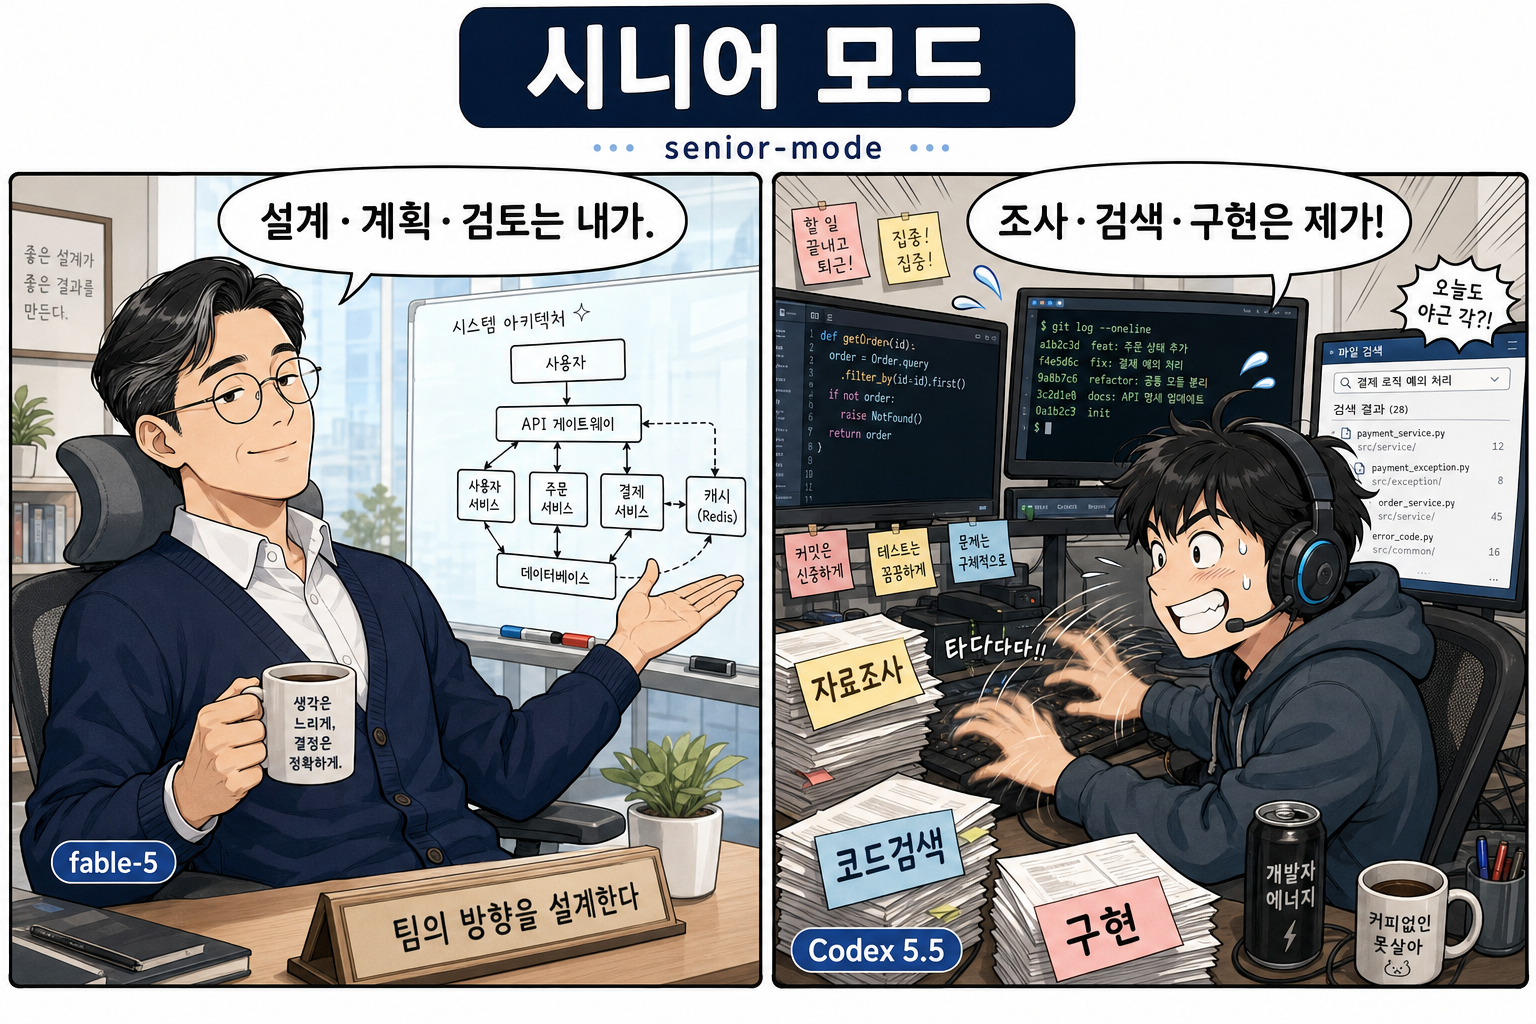
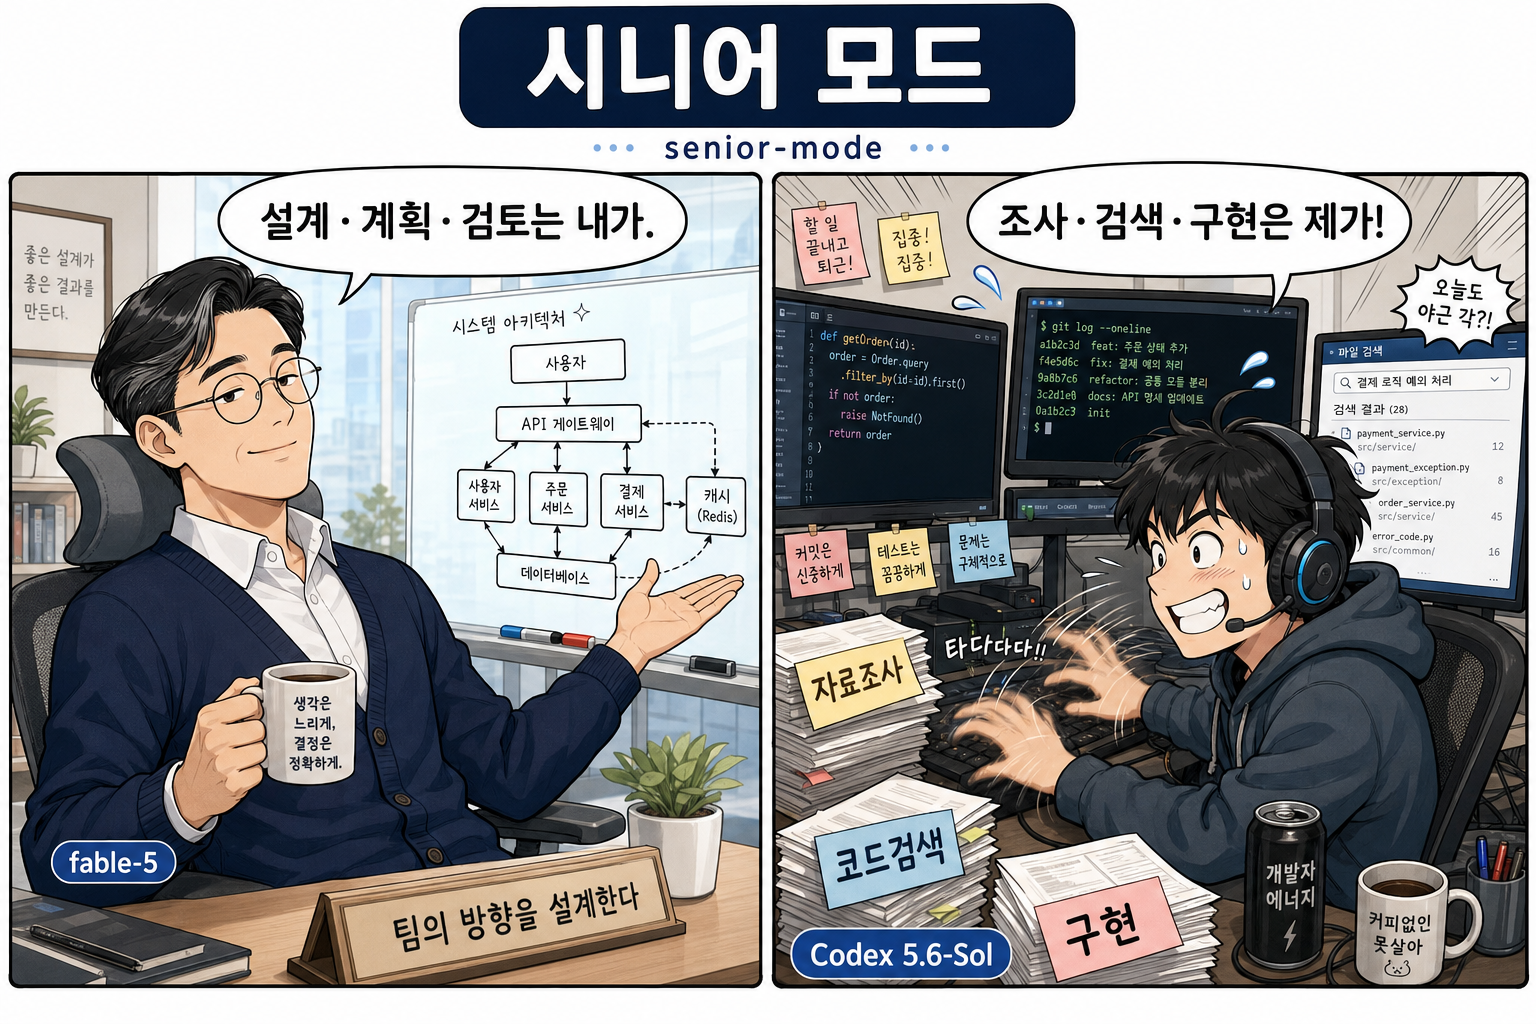
senior-mode: 모델 갱신 반영 (Opus 5, gpt-5.6-sol)
- 위임 경로 문서에서 Opus 4.8 → Opus 5 (README, README.en, SKILL, team-runtime)
- 웹툰 히어로 이미지 막내 배지 Codex 5.5 → Codex 5.6-Sol (gpt-image 로컬 인페인트, 나머지 원본 유지) + 양쪽 README alt 텍스트
- 컴패니언 스크립트: `sol` = gpt-5.6-sol 별칭 추가, effort에 max/ultra 허용, usage 문자열 갱신
- README 플래그 설명에 기본 모델·별칭·effort 범위 한 줄 추가, 저장소 트리에 docs/ 누락분 보강

검증: `task --dry-run --model sol --effort max` → `--model gpt-5.6-sol` + `model_reasoning_effort="max"`,
`--model spark --effort ultra` → gpt-5.3-codex-spark, 잘못된 effort는 exit 1, `setup` doctor ok.

Claude-Session: https://claude.ai/code/session_01Ag5eQeAgbDZDe3gFH8DUnK

Changed region(s): [[0.5, 0.875, 0.6562, 0.9688]]

diff --git a/SKILL.md b/SKILL.md
@@ -1,11 +1,11 @@
 ---
 name: senior-mode
-description: Senior engineering orchestration mode for Claude Code where fable-5 is reserved for high-leverage judgment, precise delegation prompts, report triage, and document writing while investigation, review, and delegated implementation passes go to a delegate — Codex through this skill's companion script by default, Opus 4.8 through the Agent tool, or an Anthropic-only agent team (references/team-runtime.md) when the user explicitly asks. Use when the user asks for senior-mode, 시니어 모드, fable-5 판단, 코덱스에게 조사 시키기, opus로 위임, opus로 구현, 팀으로 오케스트레이션, 정교한 프롬프트 작성, or when a complex task needs delegated research before a concise senior decision; do not use for small tasks, single-file edits, routine implementation, or any flow where fable-5 would write code bodies.
+description: Senior engineering orchestration mode for Claude Code where fable-5 is reserved for high-leverage judgment, precise delegation prompts, report triage, and document writing while investigation, review, and delegated implementation passes go to a delegate — Codex through this skill's companion script by default, Opus 5 through the Agent tool, or an Anthropic-only agent team (references/team-runtime.md) when the user explicitly asks. Use when the user asks for senior-mode, 시니어 모드, fable-5 판단, 코덱스에게 조사 시키기, opus로 위임, opus로 구현, 팀으로 오케스트레이션, 정교한 프롬프트 작성, or when a complex task needs delegated research before a concise senior decision; do not use for small tasks, single-file edits, routine implementation, or any flow where fable-5 would write code bodies.
 ---
 
 # Senior Mode
 
-Use `senior-mode` to preserve fable-5 for scarce senior-engineer work. Claude is the senior lead: it decides what must be learned, writes precise prompts, invokes the delegate, reads the returned reports, judges the situation, and writes documents or next-step prompts. The delegate does repository investigation, review, debugging passes, and explicitly delegated implementation detail discovery. Codex through the bundled companion script is the default delegate; Opus 4.8 through the Agent tool is an opt-in alternate (see Delegate Selection).
+Use `senior-mode` to preserve fable-5 for scarce senior-engineer work. Claude is the senior lead: it decides what must be learned, writes precise prompts, invokes the delegate, reads the returned reports, judges the situation, and writes documents or next-step prompts. The delegate does repository investigation, review, debugging passes, and explicitly delegated implementation detail discovery. Codex through the bundled companion script is the default delegate; Opus 5 through the Agent tool is an opt-in alternate (see Delegate Selection).
 
 This skill follows the official `openai/codex-plugin-cc` shape: Claude does not hand-roll Codex CLI calls. It uses the local helper script as the runtime boundary.
 
@@ -32,11 +32,11 @@ senior-mode has three delegation paths. Codex through the companion script is th
 | **Opus single-agent** | "opus로 구현", "opus에게 위임", "opus로 조사" | `Agent` tool with `model: "opus"` — mapping below |
 | **Anthropic team** | `/senior-mode:team`, "팀 모드", "팀으로 오케스트레이션", "anthropic 모델만으로" | Agent team led by the session model — read `references/team-runtime.md` beside this file |
 
-The `/senior-mode:team` and `/senior-mode:codex` slash commands (installed under `~/.claude/commands/senior-mode/`) pin a path for the session; a pinned path stays pinned until the user explicitly switches. Asking for `spark` is a Codex model choice (`--model spark` through the helper), not a delegate switch.
+The `/senior-mode:team` and `/senior-mode:codex` slash commands (installed under `~/.claude/commands/senior-mode/`) pin a path for the session; a pinned path stays pinned until the user explicitly switches. Asking for `sol` or `spark` is a Codex model choice (`--model sol` / `--model spark` through the helper), not a delegate switch.
 
 Opus delegation does not use the companion script. Use Claude Code's native `Agent` tool with `model: "opus"` and put the full delegation prompt — same Delegation Prompt Contract — in the `prompt` field:
 
-| Codex invocation | Opus 4.8 equivalent |
+| Codex invocation | Opus 5 equivalent |
 | --- | --- |
 | `task --wait --read-only` | `Agent` with `subagent_type: "Explore"`, `model: "opus"`, `run_in_background: false` |
 | `task --background --read-only` | Same, default background run; the completion notification replaces `wait`/`watch` |
@@ -82,8 +82,8 @@ Runtime rules:
 - Use `task --write` only when the user has explicitly moved from senior judgment to delegated implementation.
 - Prefer `--wait` for bounded jobs where Claude should receive the final report in the same tool call. Prefer `--background` for open-ended, multi-step, or likely slow Codex work; immediately record the returned job id and use `wait`, `status`, `watch`, `result`, and `cancel` through the same helper.
 - Use `review` for Codex code review. After review output, do not auto-fix findings; ask which findings should be acted on.
-- Use `--model` only when the user asks for a specific model. Map `spark` through the helper rather than writing the concrete model name yourself.
-- Use `--effort` only when the user asks for a specific reasoning effort.
+- Use `--model` only when the user asks for a specific model. Otherwise let Codex use its own configured default (currently `gpt-5.6-sol`). Map `sol` / `spark` through the helper rather than writing the concrete model name yourself.
+- Use `--effort` only when the user asks for a specific reasoning effort. `max` and `ultra` exist on the 5.6 family; do not reach for them by default.
 - Use `--prompt-file` for multi-line prompts so shell quoting never changes the task.
 - Do not inspect the repository yourself merely to make the Codex prompt more detailed. Prompt from the decision need, known paths, and the user's request.
 - Never start a second Codex run merely because output was not received. First run `status <job-id>` and `result <job-id>` for the original job id; if it is `stale`, read the stored output and decide from that evidence.

diff --git a/README.md b/README.md
@@ -3,7 +3,7 @@
 *비싼 모델은 시니어 판단에만 쓰고 손이 많이 가는 조사는 Codex에 맡기는 Claude Code 스킬.*
 
 <p align="center">
-  <img src="./docs/senior-mode-webtoon.png" alt="senior-mode 웹툰 — fable-5(김부장)는 설계·계획·검토, Codex 5.5(막내)는 자료조사·코드검색·구현" width="760">
+  <img src="./docs/senior-mode-webtoon.png" alt="senior-mode 웹툰 — fable-5(김부장)는 설계·계획·검토, Codex 5.6-Sol(막내)는 자료조사·코드검색·구현" width="760">
 </p>
 
 [English README](./README.en.md)
@@ -97,6 +97,8 @@ node scripts/codex-companion.mjs review --background --base main --cwd <repo>
 
 쓸 만한 플래그: `--prompt-file`(셸 따옴표에 안 깨지는 여러 줄 프롬프트), `--timeout-ms`, `--poll-interval-ms`, `--model`, `--effort`, `--json`, `--state-dir`.
 
+`--model`은 지정하지 않으면 Codex 쪽 기본 모델(현재 `gpt-5.6-sol`)을 그대로 씁니다. 짧은 별칭 `sol`(= `gpt-5.6-sol`)과 `spark`(= `gpt-5.3-codex-spark`)를 쓸 수 있고, `--effort`는 `none`부터 `xhigh`·`max`·`ultra`까지 받습니다.
+
 작업 상태는 워크스페이스 루트의 `.senior-mode/codex/jobs/` 아래에 기록되고 gitignore됩니다.
 
 ## LazyCodex (선택)
@@ -128,8 +130,8 @@ Claude는 설계 브리프(트리거 줄, 목표, 검증 가능한 성공 기준
 | --- | --- | --- |
 | `/senior-mode` (기본) | Codex | 컴패니언 스크립트 |
 | `/senior-mode:codex` | Codex 고정 | 컴패니언 스크립트 (세션 내내 고정) |
-| "opus로 구현해줘" | Opus 4.8 단일 에이전트 | Claude Code 내장 Agent 툴 (`model: "opus"`) |
-| `/senior-mode:team` | Anthropic 에이전트 팀 | 세션 메인 모델(fable-5 또는 Opus 4.8)이 팀 리드 |
+| "opus로 구현해줘" | Opus 5 단일 에이전트 | Claude Code 내장 Agent 툴 (`model: "opus"`) |
+| `/senior-mode:team` | Anthropic 에이전트 팀 | 세션 메인 모델(fable-5 또는 Opus 5)이 팀 리드 |
 
 **Opus 단일 에이전트** — 조사는 읽기 전용 Explore 에이전트, 구현은 general-purpose 에이전트(위험한 멀티파일 변경은 워크트리 격리)로 매핑됩니다. 별도 설치나 설정이 필요 없습니다.
 
@@ -154,6 +156,8 @@ senior-mode/
 │  └─ codex.md                 # /senior-mode:codex 슬래시 커맨드
 ├─ scripts/
 │  └─ codex-companion.mjs      # 의존성 없는 Codex 런타임 경계
+├─ docs/
+│  └─ senior-mode-webtoon.png  # README 상단 히어로 이미지
 ├─ install.sh                  # curl로 바로 실행하는 설치 스크립트
 ├─ README.md                   # 이 파일 (한국어)
 └─ README.en.md                # 영문 README

diff --git a/README.en.md b/README.en.md
@@ -3,7 +3,7 @@
 *A Claude Code skill that keeps your most expensive model on senior judgment and hands the legwork to Codex.*
 
 <p align="center">
-  <img src="./docs/senior-mode-webtoon.png" alt="senior-mode webtoon — fable-5 (the manager) does design/planning/review, Codex 5.5 (the junior) does research/code-search/implementation" width="760">
+  <img src="./docs/senior-mode-webtoon.png" alt="senior-mode webtoon — fable-5 (the manager) does design/planning/review, Codex 5.6-Sol (the junior) does research/code-search/implementation" width="760">
 </p>
 
 [한국어 README](./README.md)
@@ -97,6 +97,8 @@ Every background job returns a job id. Use it instead of launching a second run:
 
 Useful flags: `--prompt-file` (multi-line prompts that survive shell quoting), `--timeout-ms`, `--poll-interval-ms`, `--model`, `--effort`, `--json`, `--state-dir`.
 
+Omit `--model` and Codex uses its own configured default (currently `gpt-5.6-sol`). Short aliases are `sol` (= `gpt-5.6-sol`) and `spark` (= `gpt-5.3-codex-spark`); `--effort` accepts `none` through `xhigh`, plus `max` and `ultra`.
+
 Job state is written under `.senior-mode/codex/jobs/` in the workspace root and is gitignored.
 
 ## LazyCodex (optional)
@@ -128,8 +130,8 @@ Codex is the default delegate, but explicit requests route to Anthropic models i
 | --- | --- | --- |
 | `/senior-mode` (default) | Codex | companion script |
 | `/senior-mode:codex` | Codex, pinned | companion script (pinned for the session) |
-| "implement this with opus" | Opus 4.8 single agent | Claude Code's built-in Agent tool (`model: "opus"`) |
-| `/senior-mode:team` | Anthropic agent team | session main model (fable-5 or Opus 4.8) as team lead |
+| "implement this with opus" | Opus 5 single agent | Claude Code's built-in Agent tool (`model: "opus"`) |
+| `/senior-mode:team` | Anthropic agent team | session main model (fable-5 or Opus 5) as team lead |
 
 **Opus single agent** — investigation maps to the read-only Explore agent, implementation to a general-purpose agent (worktree isolation for risky multi-file changes). No extra install or setup.
 
@@ -154,6 +156,8 @@ senior-mode/
 │  └─ codex.md                 # /senior-mode:codex slash command
 ├─ scripts/
 │  └─ codex-companion.mjs      # dependency-free Codex runtime boundary
+├─ docs/
+│  └─ senior-mode-webtoon.png  # README hero image
 ├─ install.sh                  # curl-pipeable installer
 ├─ README.md                   # Korean README
 └─ README.en.md                # this file

diff --git a/references/team-runtime.md b/references/team-runtime.md
@@ -4,7 +4,7 @@ This is the Anthropic-only delegation path of senior-mode, entered with `/senior
 
 Role mapping:
 
-- **Team lead = the senior.** The lead is this session's selected model (fable-5 or Opus 4.8 — whatever the user picked with `/model`). It decides the investigation shape, writes spawn prompts, reviews plans and reports, judges, and writes documents. It never writes code bodies and never starts implementing tasks itself while teammates work.
+- **Team lead = the senior.** The lead is this session's selected model (fable-5 or Opus 5 — whatever the user picked with `/model`). It decides the investigation shape, writes spawn prompts, reviews plans and reports, judges, and writes documents. It never writes code bodies and never starts implementing tasks itself while teammates work.
 - **Teammates = the delegates.** Claude instances that investigate, review, and implement. Anthropic models only in this mode; Codex and any external runtime are out of scope (that is `/senior-mode:codex`).
 
 ## Preflight
